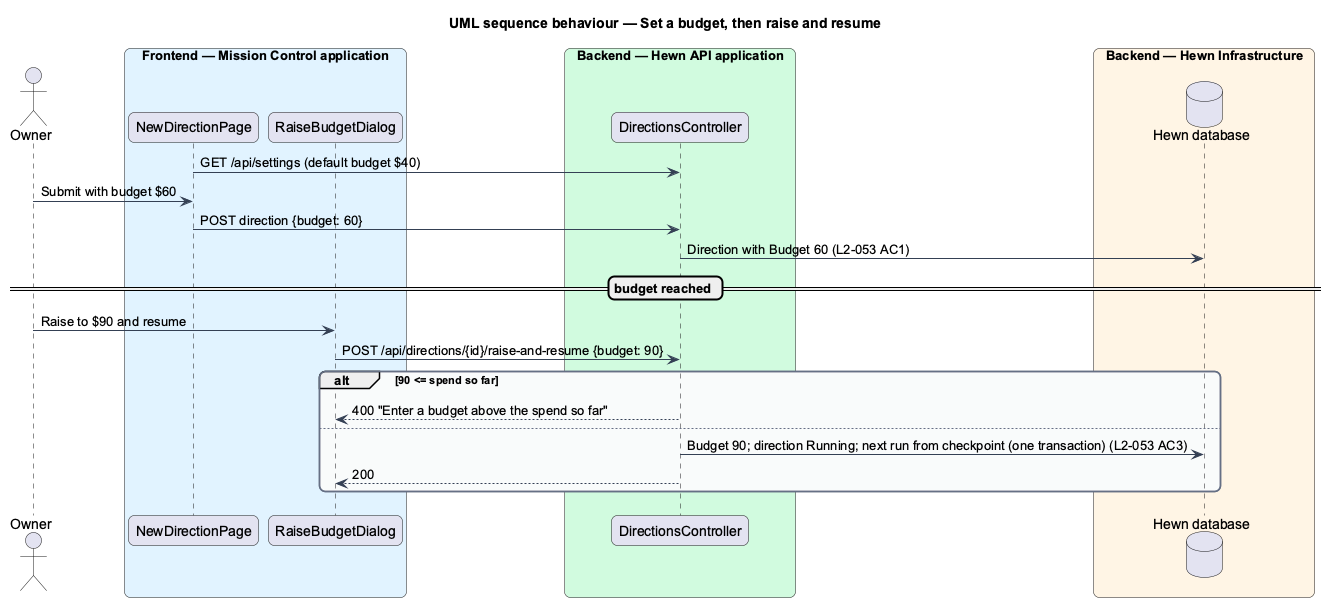
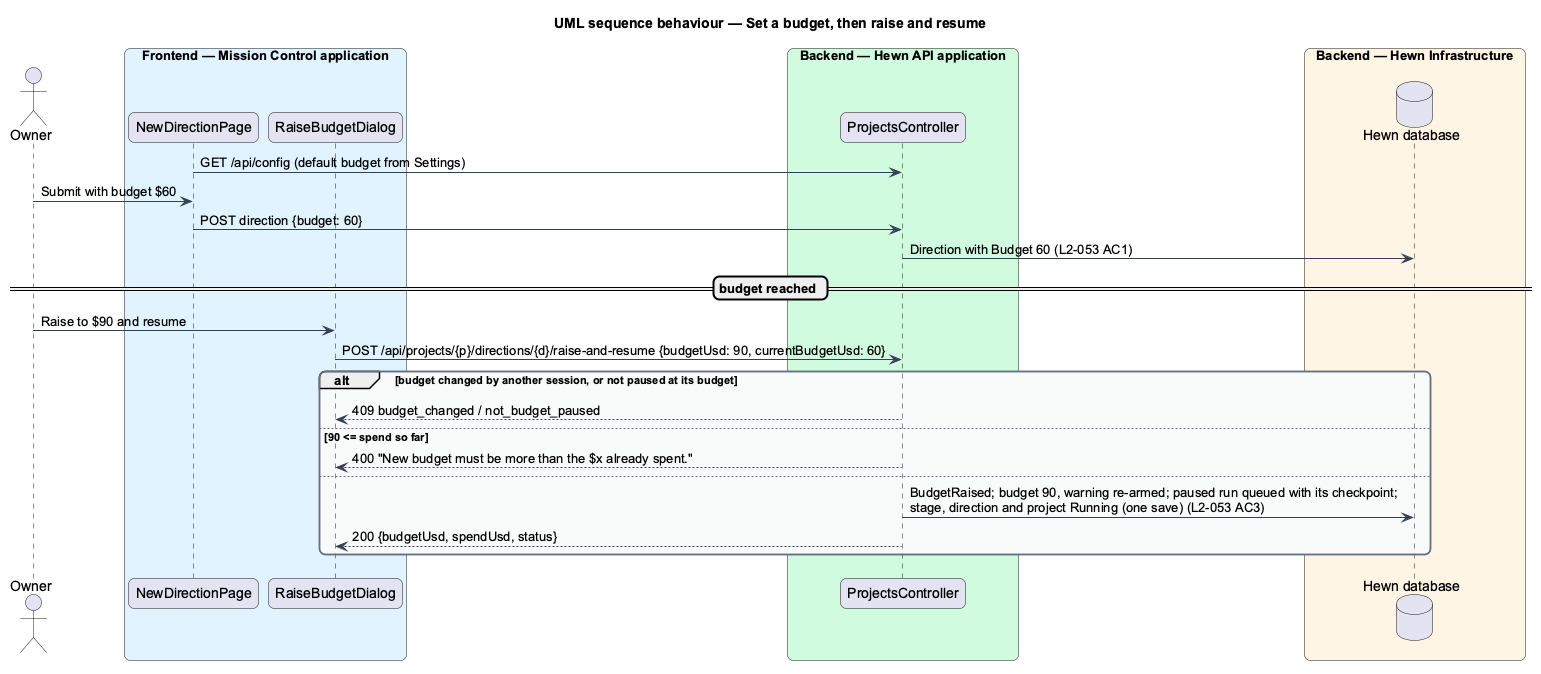
Align the spend design with Raise and resume
The raise-and-resume sequence shows the project-scoped route, the 409
answers and the single save; the design records the decisions made
while building journey 5, and the CHANGELOG the journey.

Traces to: L2-053, L2-029

Changed region(s): [[0.0, 0.0311, 1.0, 0.9951], [0.0, 0.0933, 0.0308, 0.2488], [0.0, 0.8396, 0.0308, 0.964]]

diff --git a/docs/detailed-designs/governance/spend-and-budgets/README.md b/docs/detailed-designs/governance/spend-and-budgets/README.md
@@ -20,7 +20,7 @@ The slice spans the worker's model-call meter, the spend ledger and budget guard
 - **`PriceTable`** — per-model prices in USD per million input and output tokens, from configuration (`Hewn:Prices:{model}`), defaulting to Anthropic's published prices. A price changes by configuration and restart; recorded calls keep their cost. An unknown model is priced at the table's highest rates (ADR 0010).
 - **`SpendLedger`** — table of model calls with cost, keyed by run, stage, direction and project; maintains running totals per direction and project and emits `SpendUpdated` (L2-031).
 - **`BudgetGuard`** — on each recorded call compares direction spend with its budget. Crossing 80% emits `BudgetWarning`; reaching 100% sets the direction Paused with reason "Budget reached" and returns `Stop` to the meter, which ends the run at a checkpoint after the current call.
-- **`RaiseAndResumeCommand`** — `POST /api/directions/{id}/raise-and-resume {budget}`, Owner policy. Rejects a budget at or below spend with 400; otherwise updates the budget and resumes in one transaction.
+- **`RaiseAndResumeCommand`** — `POST /api/projects/{projectId}/directions/{directionId}/raise-and-resume {budgetUsd, currentBudgetUsd}`, Owner policy. Rejects a budget at or below spend with 400; otherwise updates the budget and resumes in one transaction.
 - **`SpendBadge / BudgetBanner / RaiseBudgetDialog (Angular)`** — live spend on the project and direction, the 80% warning, and the "Budget reached" callout with Raise and resume.
 - **`DefaultBudgetSetting`** — Settings field for the default budget; the new-direction form pre-fills it and lets the Owner change it.
 
@@ -96,4 +96,19 @@ design above; ADR 0010 records them.
   (10 s, pauses on hover or focus). A budget-reached direction shows the "Paused · Budget reached" callout; its
   raise controls arrive with Raise and resume. Settings builds only the Direction defaults section's budget; the
   descope threshold, appearance, access and integrations arrive with their own journeys.
+
+Journey 5 built Raise and resume (L2-053 AC3, L2-029 AC5):
+
+- **One command.** `RaiseAndResumeCommand` takes the project lock, then checks that the budget the Owner saw is
+  still the budget (409 `budget_changed`), that the direction is Paused with "Budget reached" (409
+  `not_budget_paused`) and that the new budget is above the spend (400 on `budgetUsd`, "New budget must be more than
+  the $x already spent."). In one save it appends `BudgetRaised {directionId, budgetUsd, spendUsd, raisedBy}`,
+  queues the paused run again (same run, same checkpoint, next lease bumps the epoch), re-arms the 80% warning and
+  sends `StageChanged`, `DirectionChanged` and `ProjectChanged` as Running.
+- **The route** sits under the project, like every other project-scoped endpoint, so another project's direction is
+  404. Viewers get 403 from the Owner policy and see the callout without its controls.
+- **The dialog** is `RaiseBudgetDialog` on CDK Dialog (`backdrop` class, focus on the field, Escape and Cancel close
+  it). It refuses a budget at or below the spend inline before sending, shows the API's 400 on the field, and a 409
+  as "The budget wasn't changed". Its description reads "resumes from its last checkpoint": the project read model
+  does not carry the checkpoint's commit, so the mock's short SHA is left out.
 

diff --git a/CHANGELOG.md b/CHANGELOG.md
@@ -14,6 +14,11 @@ and this project adheres to [Semantic Versioning](https://semver.org/spec/v2.0.0
 
 ### Added
 
+- Raise budget and resume (journey 5, L2-053 AC3, L2-029 AC5): on a direction Paused with "Budget reached", an
+  Owner enters a new budget above the spend and presses Raise and resume; the budget is raised and the direction
+  resumes from the step after its checkpoint in one action
+  (`POST /api/projects/{id}/directions/{d}/raise-and-resume`, `BudgetRaised`). A budget at or below the spend is
+  refused inline, a budget another session changed answers 409, and Viewers see no control and get 403.
 - Limit spending (journey 4, L2-052, L2-053 AC1-AC3):
   - workers report every model call (`POST /api/worker/runs/{id}/model-calls`); Hewn prices it from a configured
     price table and records its tokens, model and cost against its run, stage, direction and project (ADR 0010);
